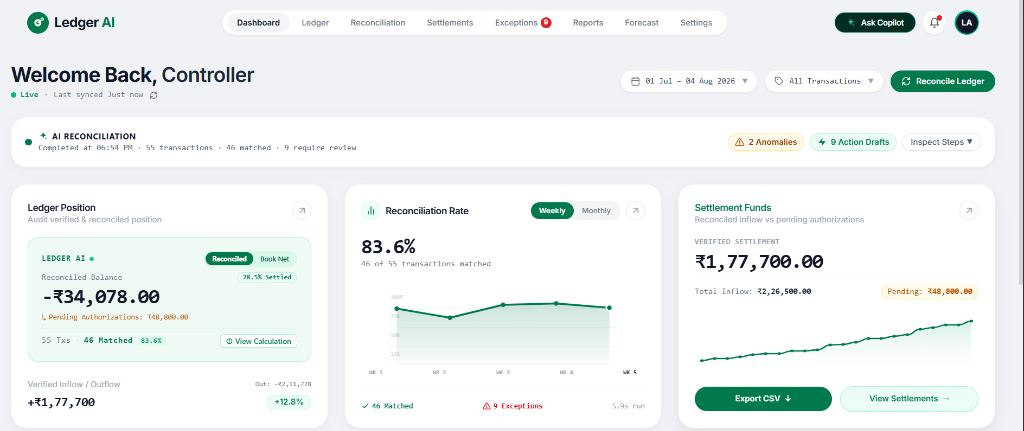
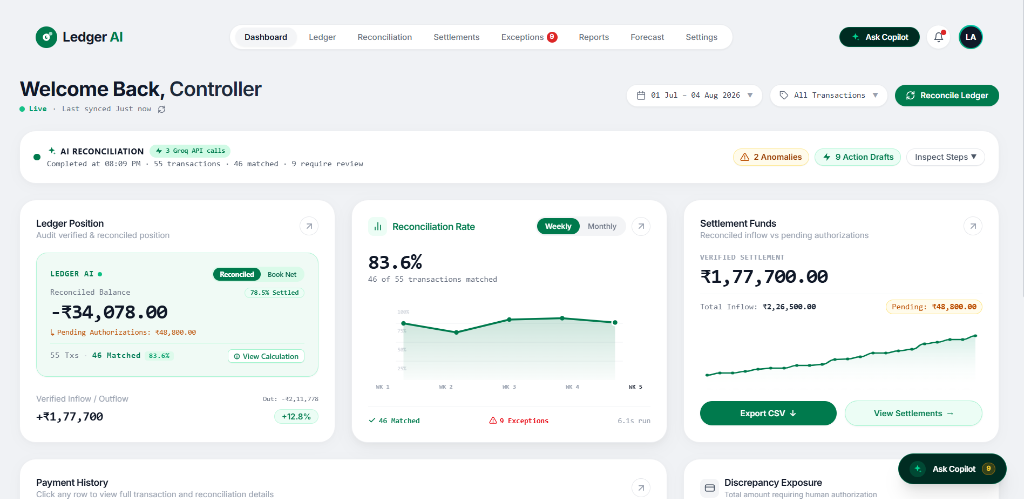
docs: upgrade to 5 high-resolution click-to-zoom screenshots including Ask Copilot analysis

diff --git a/README.md b/README.md
@@ -42,26 +42,32 @@ Here is how Ledger AI directly fulfills each benchmark:
 ## Visual Walkthrough
 
 ### 1. Executive Finance Controller Dashboard
-![Finance Controller Dashboard](docs/screenshots/dashboard.png)
-*Figure 1: Real-time visibility into net cash position (-₹34,078.00), 83.6% reconciliation rate across 55 transactions, verified settlement funds (₹1,77,700.00), and controller activity summary.*
+[![Finance Controller Dashboard](docs/screenshots/dashboard.png)](docs/screenshots/dashboard.png)
+*Figure 1: Real-time visibility into net cash position (-₹34,078.00), 83.6% reconciliation rate across 55 transactions, verified settlement funds (₹1,77,700.00), and controller activity summary. (Click to expand high-res)*
 
 ---
 
 ### 2. Autonomous AI Reconciliation Pipeline & Exceptions Queue
-![AI Reconciliation Pipeline and Exceptions Queue](docs/screenshots/pipeline-queue.png)
-*Figure 2: Multi-agent execution trace across 55 ingested transactions, verifying 46 matches and isolating 9 unresolvable edge cases categorized into Missing Invoices, Duplicate Payments, and Spend Anomalies.*
+[![AI Reconciliation Pipeline and Exceptions Queue](docs/screenshots/pipeline-queue.png)](docs/screenshots/pipeline-queue.png)
+*Figure 2: Multi-agent execution trace across 55 ingested transactions, verifying 46 matches and isolating 9 unresolvable edge cases categorized into Missing Invoices, Duplicate Payments, and Spend Anomalies. (Click to expand high-res)*
 
 ---
 
 ### 3. Honest Exception Review & AI Action Drafting
-![Honest Exception Review and Action Draft](docs/screenshots/exception-action.png)
-*Figure 3: Contextual anomaly diagnosis (e.g., AWS Infrastructure 3.3x spend surge) paired with an automated, pre-drafted budget review memo ready for 1-click human-in-the-loop controller approval.*
+[![Honest Exception Review and Action Draft](docs/screenshots/exception-action.png)](docs/screenshots/exception-action.png)
+*Figure 3: Contextual anomaly diagnosis (e.g., AWS Infrastructure 3.3x spend surge) paired with an automated, pre-drafted budget review memo ready for 1-click human-in-the-loop controller approval. (Click to expand high-res)*
 
 ---
 
-### 4. Transparent Discrepancy Register & Predictive Spend Forecast
-![Discrepancy Register and Spend Forecast](docs/screenshots/audit-register-forecast.png)
-*Figure 4: Audit register listing edge cases with plain-language explanations, alongside an automated run-rate predictive spend model projecting monthly operational burn (₹78,700).*
+### 4. Interactive Settlement Q&A Copilot ("Ask Copilot")
+[![Interactive Settlement QA Copilot](docs/screenshots/copilot-chat.png)](docs/screenshots/copilot-chat.png)
+*Figure 4: Streaming conversational Copilot drawer grounded in ledger state, performing live root-cause interrogation on transaction #16 (AWS emergency scaling) with actionable recommendations. (Click to expand high-res)*
+
+---
+
+### 5. Transparent Discrepancy Register & Predictive Spend Forecast
+[![Discrepancy Register and Spend Forecast](docs/screenshots/audit-register-forecast.png)](docs/screenshots/audit-register-forecast.png)
+*Figure 5: Audit register listing edge cases with plain-language explanations, alongside an automated run-rate predictive spend model projecting monthly operational burn (₹78,700). (Click to expand high-res)*
 
 ---
 
